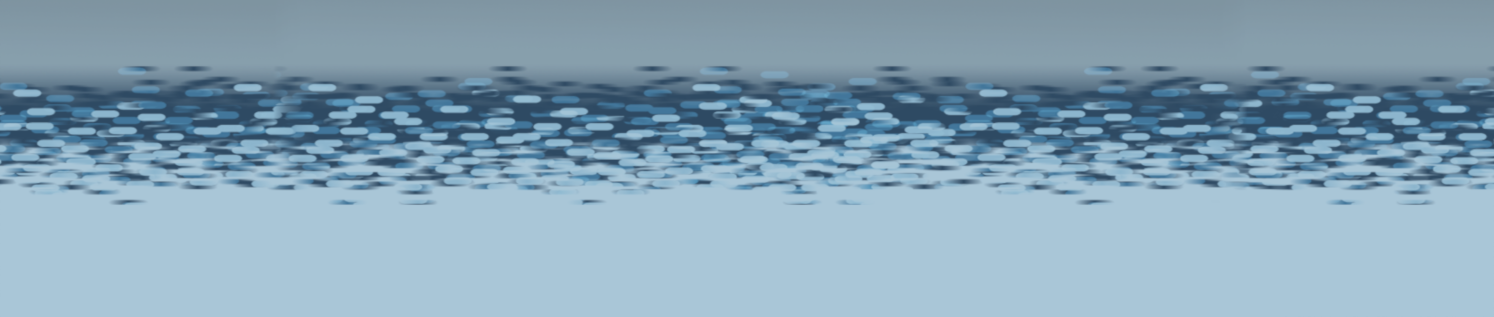
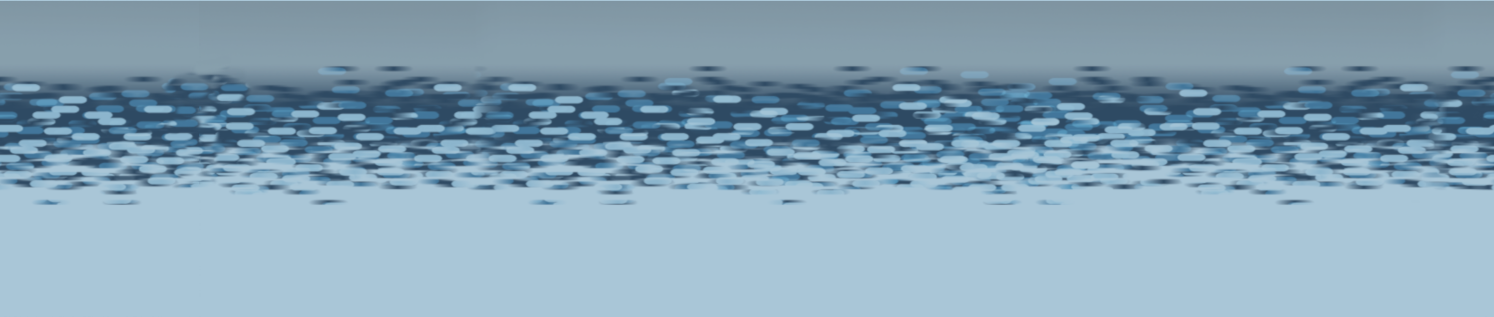
making jboss as 7 feature slide wrappable along x axis

Changed region(s): [[0.0, 0.1987, 1.0, 0.653], [0.0, 0.0, 1.0, 0.0284]]

diff --git a/fedoraproject.org/static/css/fedora960.css b/fedoraproject.org/static/css/fedora960.css
@@ -1543,7 +1543,13 @@ li.slide { width: 100% !important; }
   background: #555;
   background-image: url(../images/banners/jbossas7_bkg.png);  
   background-position: top center;
-  background-repeat: no-repeat;}
+  background-repeat: repeat-x;}
+  
+.slides #feature1 .content {
+  left: 0px;
+  height: 200px;
+  width: 360px;
+}
 
 .slides #feature .content {
   width: 350px;
@@ -1571,16 +1577,10 @@ li.slide { width: 100% !important; }
   background-repeat: no-repeat;
 }
 
-.slides #group-photo {
-  background: url(../images/banners/fudcon-blacksburg-2012.png) no-repeat top center white;
-}
+/* Black backgrounds for slide content where needed */
 
-
-
-/* Fedora group photo slide */ 
-
-
-.slides #group-photo .content {
+.slides #group-photo .content,
+.slides #feature1 .content {
   /* For browsers that don't support RGBa */
   background: rgb(0, 0, 0);
   /* RGBa with 0.6 opacity */
@@ -1588,12 +1588,20 @@ li.slide { width: 100% !important; }
   border-radius: 8px;
   -moz-border-radius: 8px;
   -webkit-border-radius: 8px;
-  left: 200px;
-  height: 200px;
   margin: 1em;
   padding: 1em;
 }
 
+/* Fedora group photo slide */ 
+
+.slides #group-photo {
+  background: url(../images/banners/fudcon-blacksburg-2012.png) no-repeat top center white;
+}
+
+.slides #group-photo .content {
+  left: 200px;
+  height: 200px;
+}
 
 
 /* end: slideshow styles */
